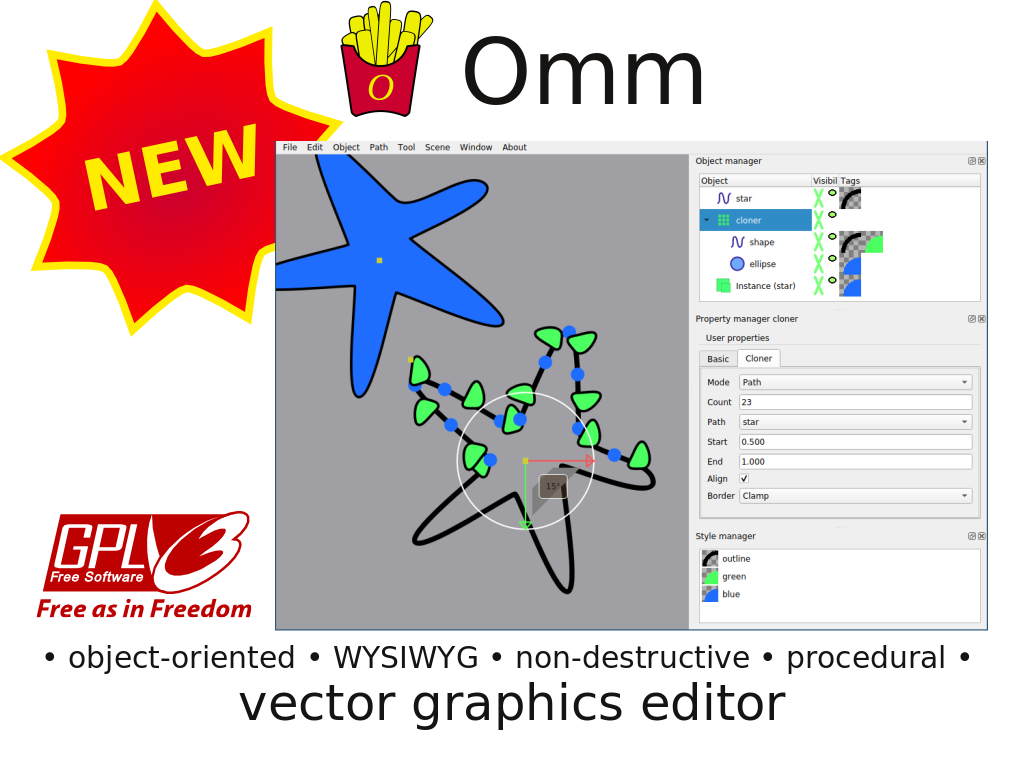
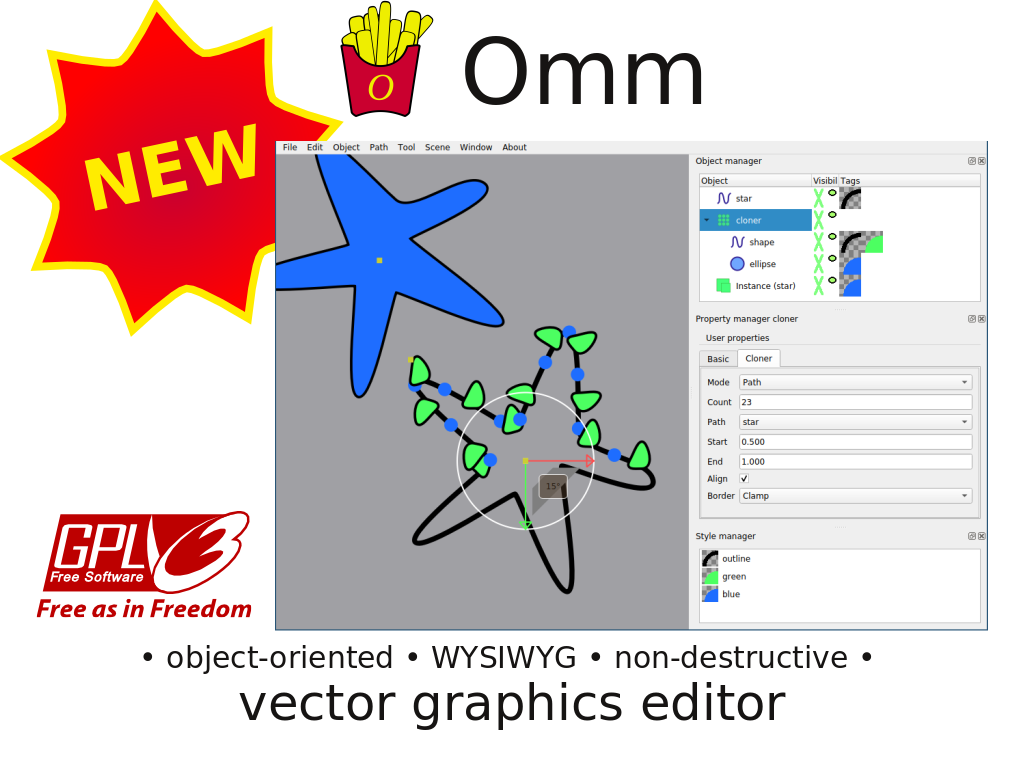
simplified and condensed slides and speaker notes

Changed region(s): [[0.0625, 0.8438, 0.9375, 0.875]]

diff --git a/ommpfritt/ommpfritt.md b/ommpfritt/ommpfritt.md
@@ -1,77 +1,24 @@
-# Omm
-
-## (1) What is omm?
-
 ![](ommpfritt-0.png)
 
 - general purpose vector graphics editor
-- GPL
-- design goals:
-  - intuitive usage
-  - WYSIWYG
-  - non-destructive, non-linear:
-      - change anyting in the scene anytime. Few to no dialogs.
-  - procedural:
-      - combine generators (cloner, mirror, outliner, etc.) to create geometry based on other geometry
-      - base geometry can be modified afterwards
-      - procedural parameters are accessible anytime
-      - also applies to styles
-  - common principles in 3D-world, rather uncommon in 2D.
-  - expressiveness: differentiate e.g. "inherently same" vs. "happens to be same by coincidence"
-  - formulate object-dependencies (e.g., radius of that ellipse is twice the width of that rectangle)
+- design goals: intuitive usage, WYSIWYG (= what you see is what you get), non-destructive
 
-## (2) Comparison with existing applications
+----
 
 ![](ommpfritt-1.png)
 
-- Visual editors (e.g., Inkscape) lack easy-to-use procedural and non-linear editing capabilities
-- Non visual editors (e.g., TikZ) are ineligible for many users and sometimes hard to use even for programmers
-- Most 3D-editors (e.g., blender) do support procedural and non-linear editing but are overkill for 2D-graphics
+- more technical and less artistical than Inkscape
+- more visual than TikZ
+- similar concept as Cinema 4D or blender, but omm is entirely 2D
 
-## (2) Current status
+- Omm provides **many special objects** and only **few tools**: cloning/arranging using Cloner-**object** rather than duplicate- and arrange-**tools**
+- Cloning along Path: all properties are accessible anytime in the cloner-object (path, number of clones, ...)
 
-- Flexible, neat gui:
-  - dockable managers
-  - edit multiple objects at once, handle conflicting values gracefully
-  - *everything* can be undone/redone, command-history
-  - fully-functional visual object-tree
-      - move/copy/link objects around with drag'n'drop
-      - integrates tags (which add functionality or style to an object)
-      - quick-access to important object properties (dis-/enabled, visibility, name)
-- basic predefined shapes (Rectangle, Ellipse, Line, etc.)
-- paths (auto-Bezier, manual-Bezier, linear)
-- Generators generate geometry from existing geometry:
-  - Cloner: arrange clones along line/ellipse/path or in grid
-  - Mirror: mirror objects or paths
-  - Instance: dynamically copy any object
-  - Outline: in- or offset a path
-- tools
-  - click-select and brush-select
-  - knife: add points by cutting geometry
-  - others ...
-- fully scriptable (Python 3) object-, style- and tag- properties
-- cascading style system: combine styles
-- immediate visual feedback
-- PNG/SVG export
-- (de-)serialize to/from json
-- tested on linux/win; supposed to run on mac
-
-## (3) Future
+----
 
 ![](ommpfritt-2.png)
 
-- keyframe- and event-based animation
-- node-based styles like blender
-- node-based visual scripting
-- SVG import
-- more tools, objects, generators and modifiers
-- make more properties editable in viewport (e.g. modifiy rectangle size by dragging the rectangle edges)
-- users and co-developers wanted
+- non-exhaustive feature list, there's much more
+- asterisk: future features
+- announce talk about non-destructive editing in theory and practice at Friday 10:50
 
-## (4) facts (optional)
-~40k lines of code
-- C++17/Qt, cmake
-- it's the 3rd rewrite-from scratch of that project
-- first iteration: 4-5 years ago, current rewrite: since August 2018. This is the last rewrite!
-- github.com/pasbi/ommpfritt
-- GPLv3
